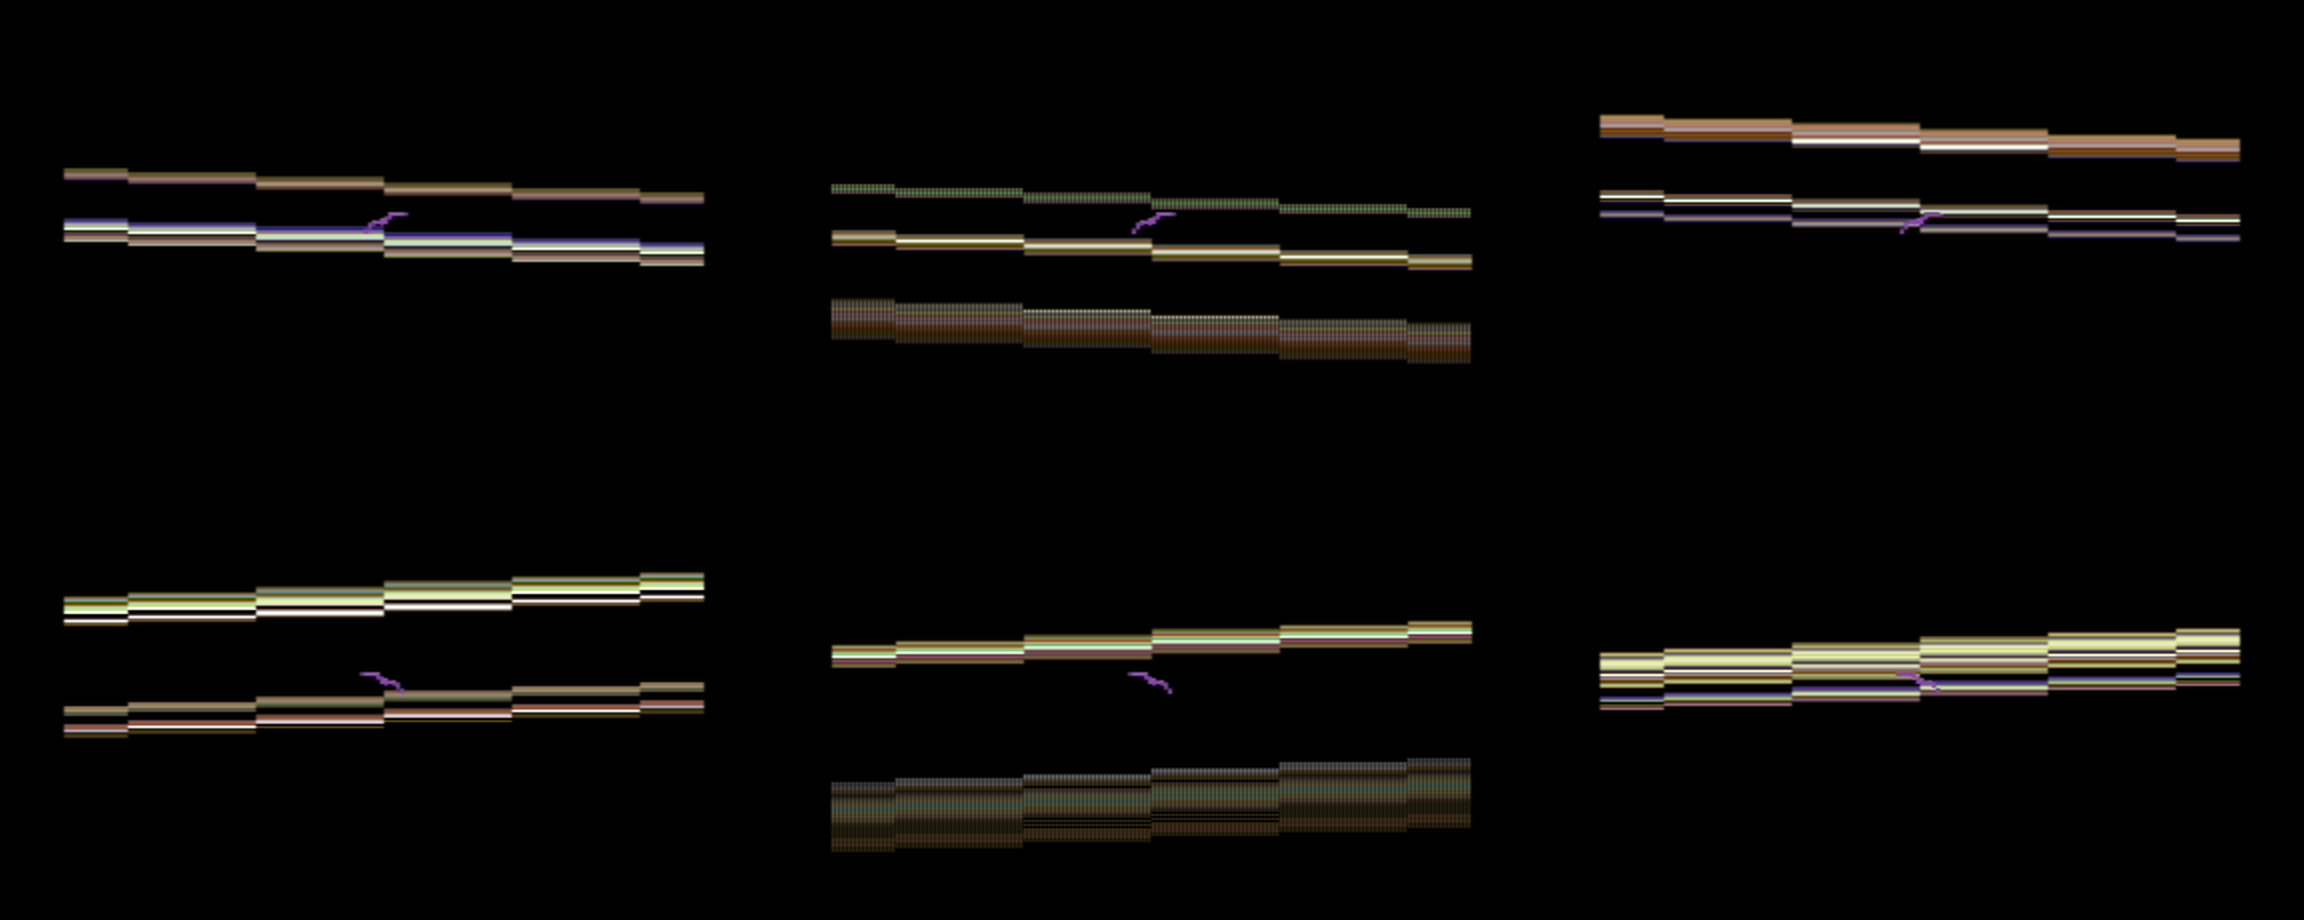
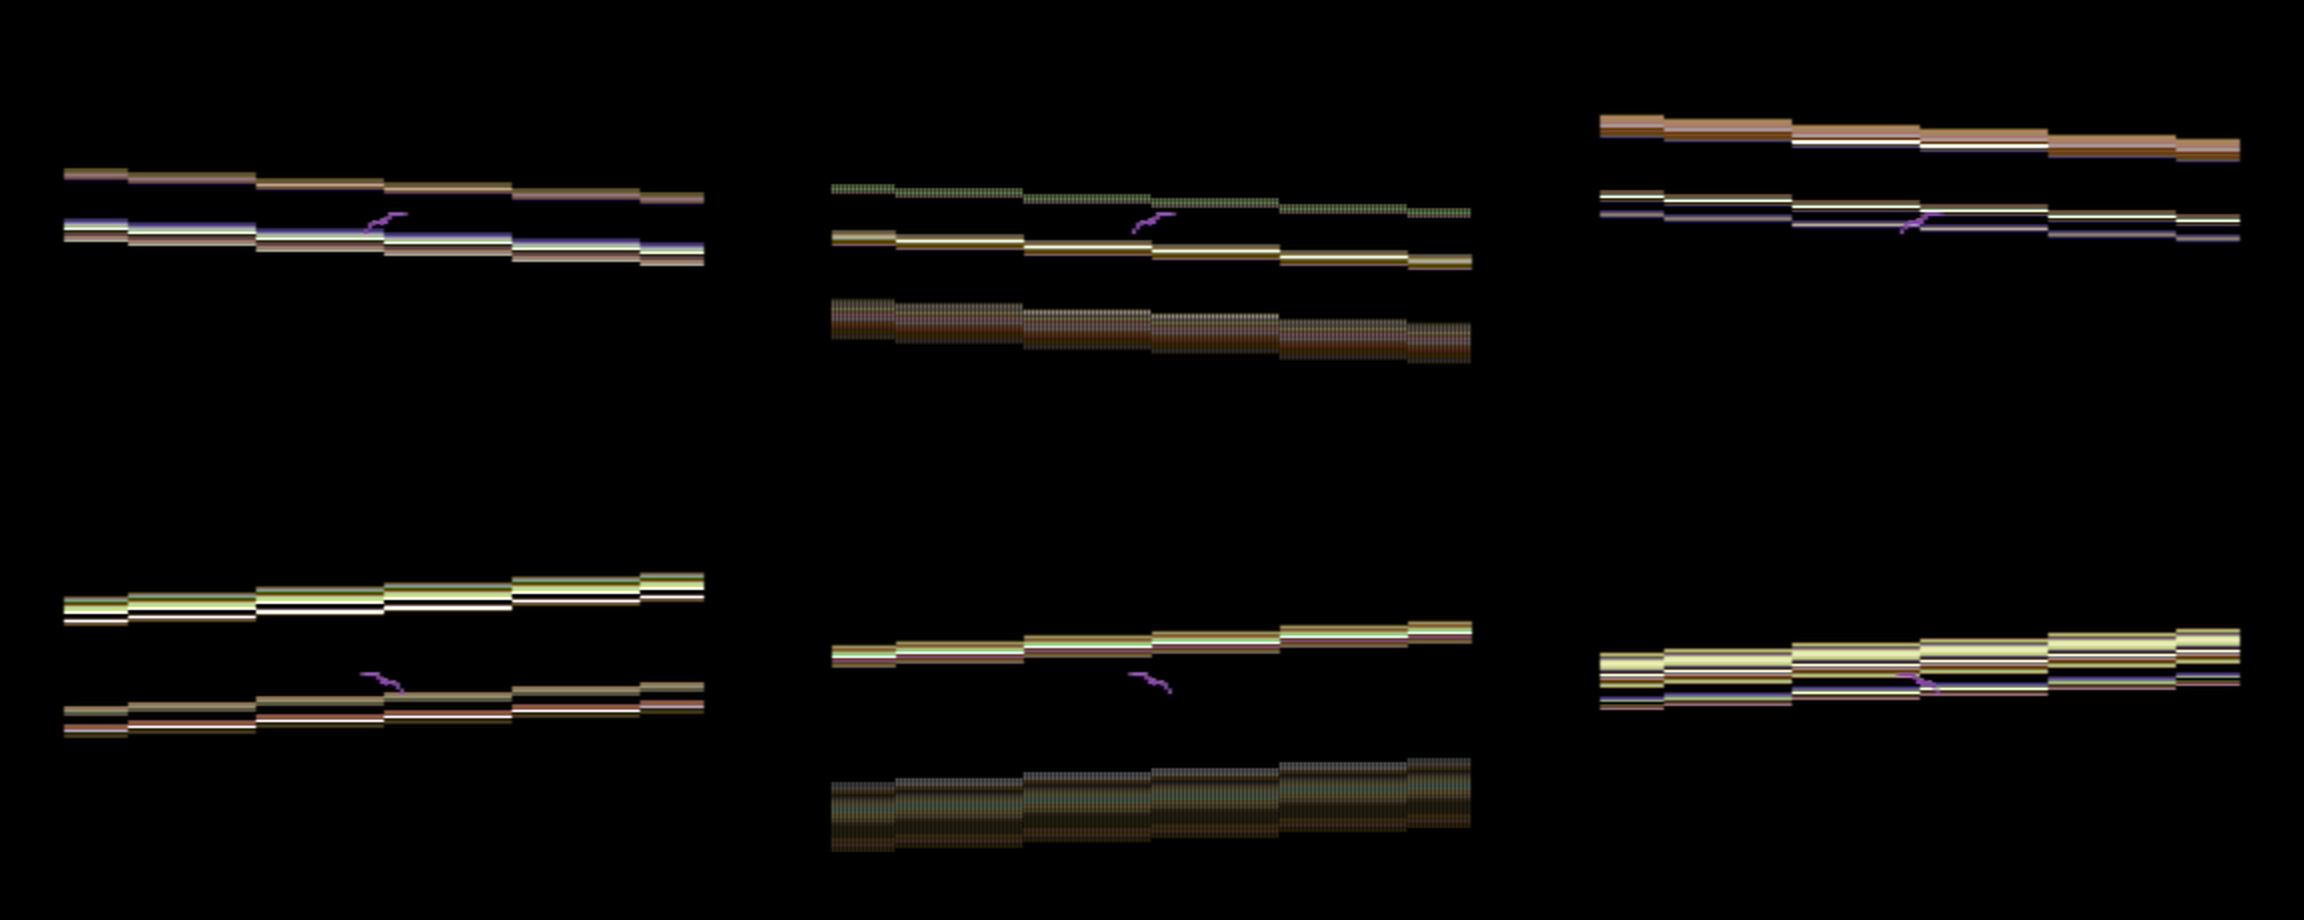
GOLDSHIP: remove the tilt flicker
The tilt's half-line flicker didn't smooth the banking, so rtilt0..5 go
back to one 17-entry table per segment and the build reads them by roll
alone. The flicker colours, alternating lines, ghost byte and the ship's
pairs stay. sim_goldship.py passes; worst frame 73.9% of the free time.
The README notes the tilt experiments (tilt flicker, split jitter, the
flickering extra line), kept only as mockups.

Claude-Session: https://claude.ai/code/session_01GdQbQ9RagfmnCC9yPV8Tp9

diff --git a/c64-raybars/gen_tables.py b/c64-raybars/gen_tables.py
@@ -475,13 +475,10 @@ SEGDX = [-144, -96, -32, 32, 96, 144]
 # roll r = -8 (left) .. 8 (right): the world turns the other way, so the bars'
 # slope is m = -3r/8 lines per 72 pixels; off_k = floor(6 + dx_k/72 * m + 0.5)
 # about the light, 0..12, stored as kb = 12 - off_k (goldship's PAD)
-# (rtilt0..5, index r + 8).  The tilt flickers to antialias it: the exact
-# offset x is floor(x + 0.75) on even frames and floor(x + 0.25) on odd ones
-# (index r + 8 + 17), so an offset half way between two lines alternates
-# between them and the bars bank in half-line steps.
+# (rtilt0..5, index r + 8)
 for k in range(6):
-    emit2(f"rtilt{k}", [12 - int(math.floor(6 + SEGDX[k] / 72 * (-3 * r / 8) + bias))
-                        for bias in (0.75, 0.25) for r in range(-8, 9)])
+    emit2(f"rtilt{k}", [12 - int(math.floor(6 + SEGDX[k] / 72 * (-3 * r / 8) + 0.5))
+                        for r in range(-8, 9)])
 # highlight colour by (distance level, spec level, segment 0..2; 3..5 mirror
 # them): index (lev*9 + s)*3 + k, as fly.inc's hltab with the drop |dx| / 32
 DROP6 = [abs(d) // 32 for d in SEGDX[:3]]

diff --git a/c64-raybars/README.md b/c64-raybars/README.md
@@ -406,9 +406,14 @@ python3 sim_goldship.py      # needs -g -Ln goldship.lbl; renders preview_goldsh
     frame and writes a live page that plays it, one C64 frame per 1/60 s,
     raw or through the PAL CRT model. It has every trick: flicker colours
     with the phase swapped on alternate lines, the ghost byte on distant
-    and dim bars, the ship's pairs, and the tilt flicker. Two more
-    recordings of the same flight compare it without the tilt flicker and
-    in plain 16 colours.
+    and dim bars, the ship's pairs, and the tilt flicker (an experiment,
+    since removed from the program). Two more recordings of the same
+    flight compare it without the tilt flicker and in plain 16 colours.
+    `python3 jitter_video.py out.mp4 [fps] [extra|ghost]` renders the
+    other tilt antialiasing experiments as videos (split jitter, a
+    flickering extra line above and below, ghosted or not). None went
+    into the program: the jitter and tilt flicker didn't smooth the
+    banking, and the extra line made the bars look thicker.
     `ship3d.py frames.png` still previews the earlier 9 attitudes.
   * Still to check in VICE: the flicker on a real (emulated) PAL frame,
     and the load, which now runs past $A000 (under the BASIC ROM).
@@ -450,13 +455,6 @@ python3 sim_goldship.py      # needs -g -Ln goldship.lbl; renders preview_goldsh
     pixels, the conversion fills it, so the roll frames stay whole.
   * Looking straight at the tail, the nose is hidden behind the body, so
     the level frame has no white.
-* **Tilt flicker.** The bars' tilt is a whole number of lines per
-  segment, so slight banks look stepped. Each segment's exact offset `x`
-  is now shown as `floor(x + 0.75)` on even frames and `floor(x + 0.25)`
-  on odd ones (`rtilt0..5` hold both halves, 34 entries; the build picks
-  the half by `fcount`'s parity). An offset half way between two lines
-  alternates between them, so the bars bank in half-line steps; a level
-  bar doesn't flicker. Cost: about 12 cycles per bar.
 * **Pitch** works like a pilot's stick: up pushes the nose down, down pulls
   it up. It eases the ship's climb speed toward ±1 unit per frame, so
   pushing up makes the bars rise. Each bar's height is relative
@@ -535,8 +533,8 @@ python3 sim_goldship.py      # needs -g -Ln goldship.lbl; renders preview_goldsh
   * The ship's frames arrive intact at $8800, the idle byte stays 0, and
     every frame's sprite pointer is the one for its roll, climb speed and
     frame parity. Every block's idle byte is the ghost byte for its
-    nearest bar's distance, or 0. With the flicker colours, ghost byte
-    and tilt flicker the worst frame uses 74.2% of the free time. The
+    nearest bar's distance, or 0. With the flicker colours and ghost
+    byte the worst frame uses 73.9% of the free time. The
     preview shows each two frames through the PAL CRT model, blended as
     the eye does.
 * **The six-segment display loops.**
